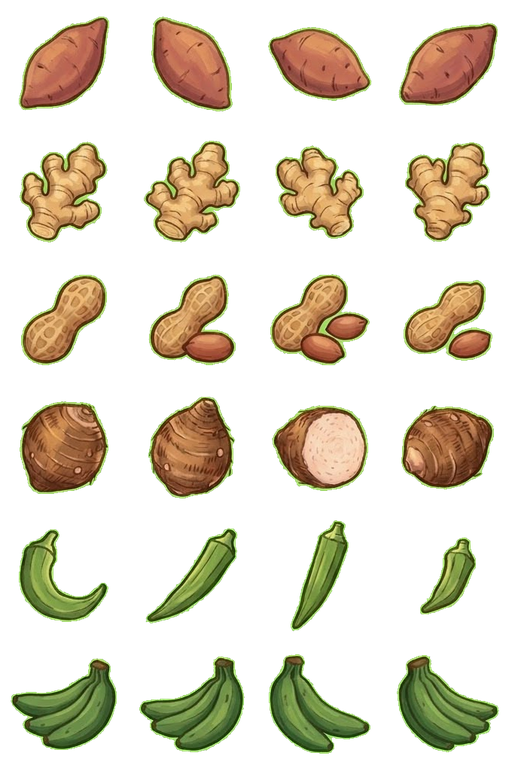
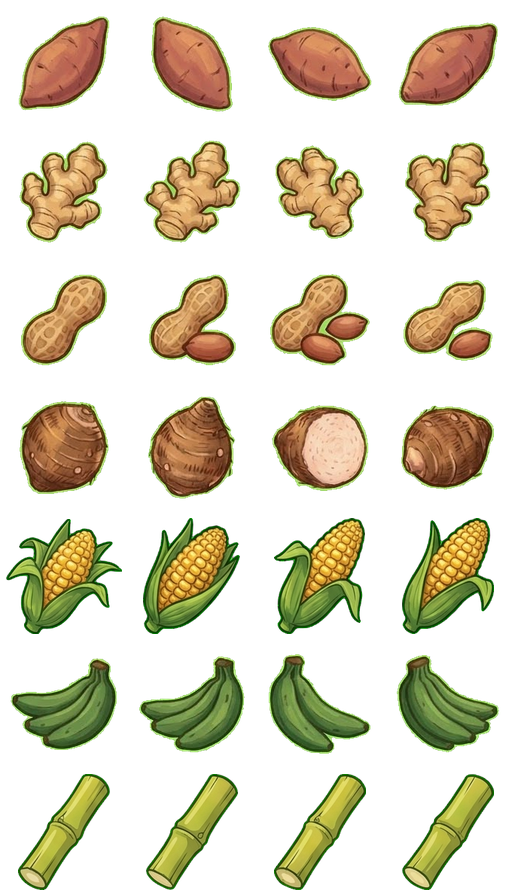
Maïs et canne à sucre au potager, épicerie de Kykah, ingrédients du gâteau de maïs
Claude-Session: https://claude.ai/code/session_014bi368SbjZ4sCSmbjCzFcj

diff --git a/index.html b/index.html
@@ -1142,7 +1142,7 @@
 <script src="mymask.js"></script>
 <script src="sprites.js"></script>
 <script src="art.js"></script>
-<script src="game.js?v=90"></script>
+<script src="game.js?v=91"></script>
 </body>
 </html>
 
